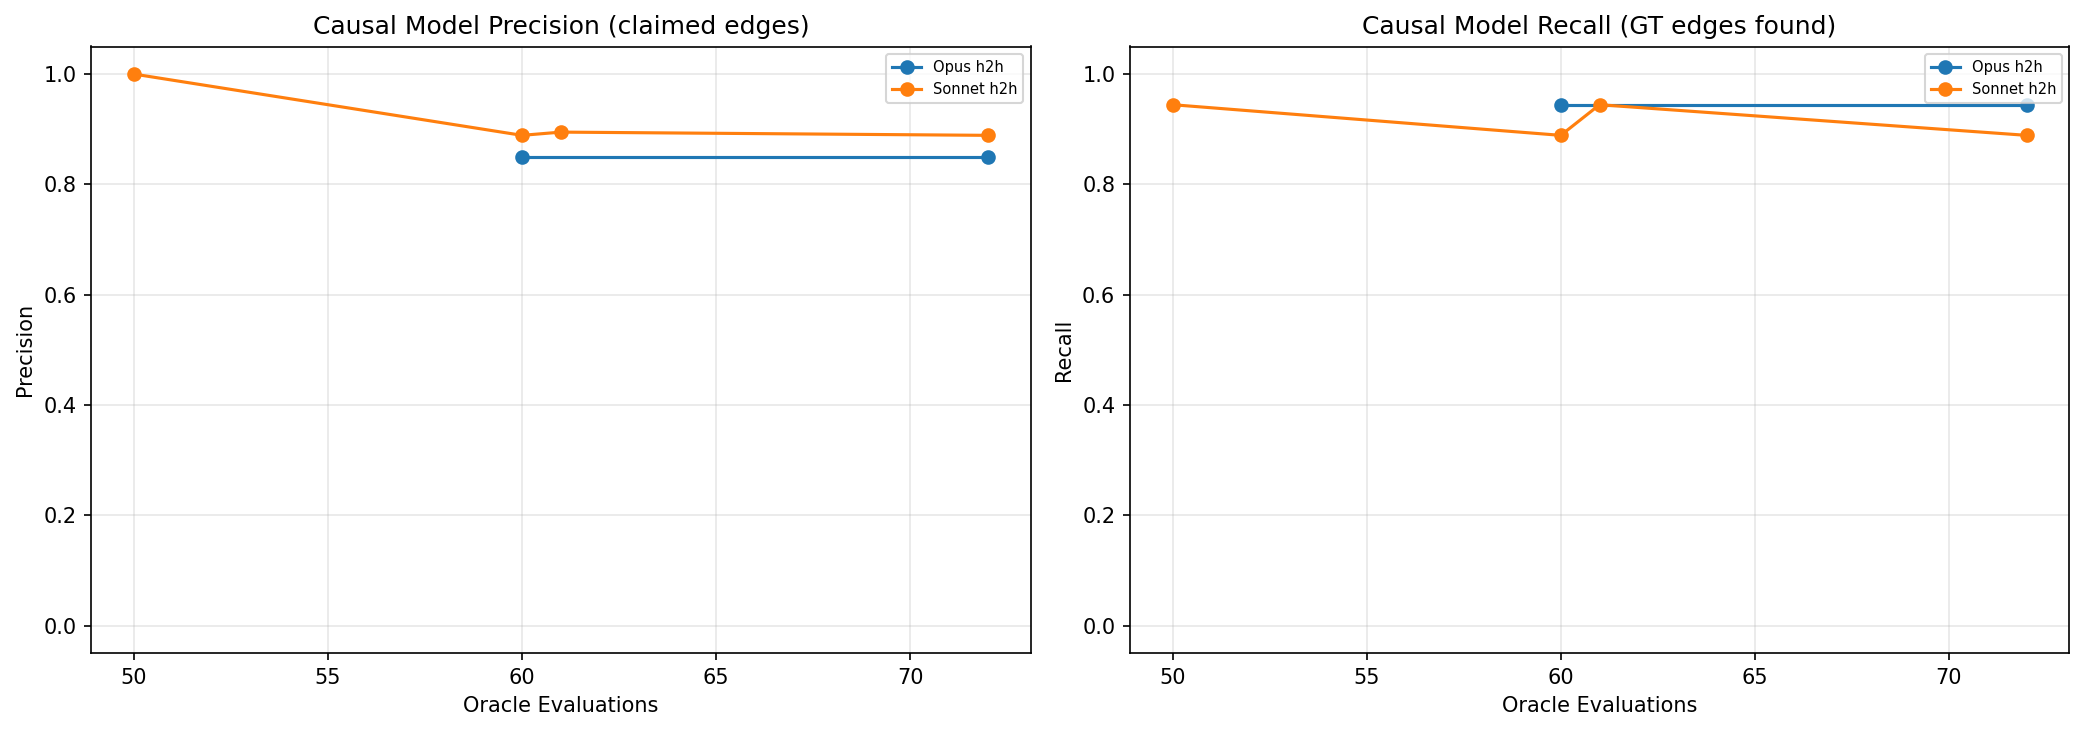
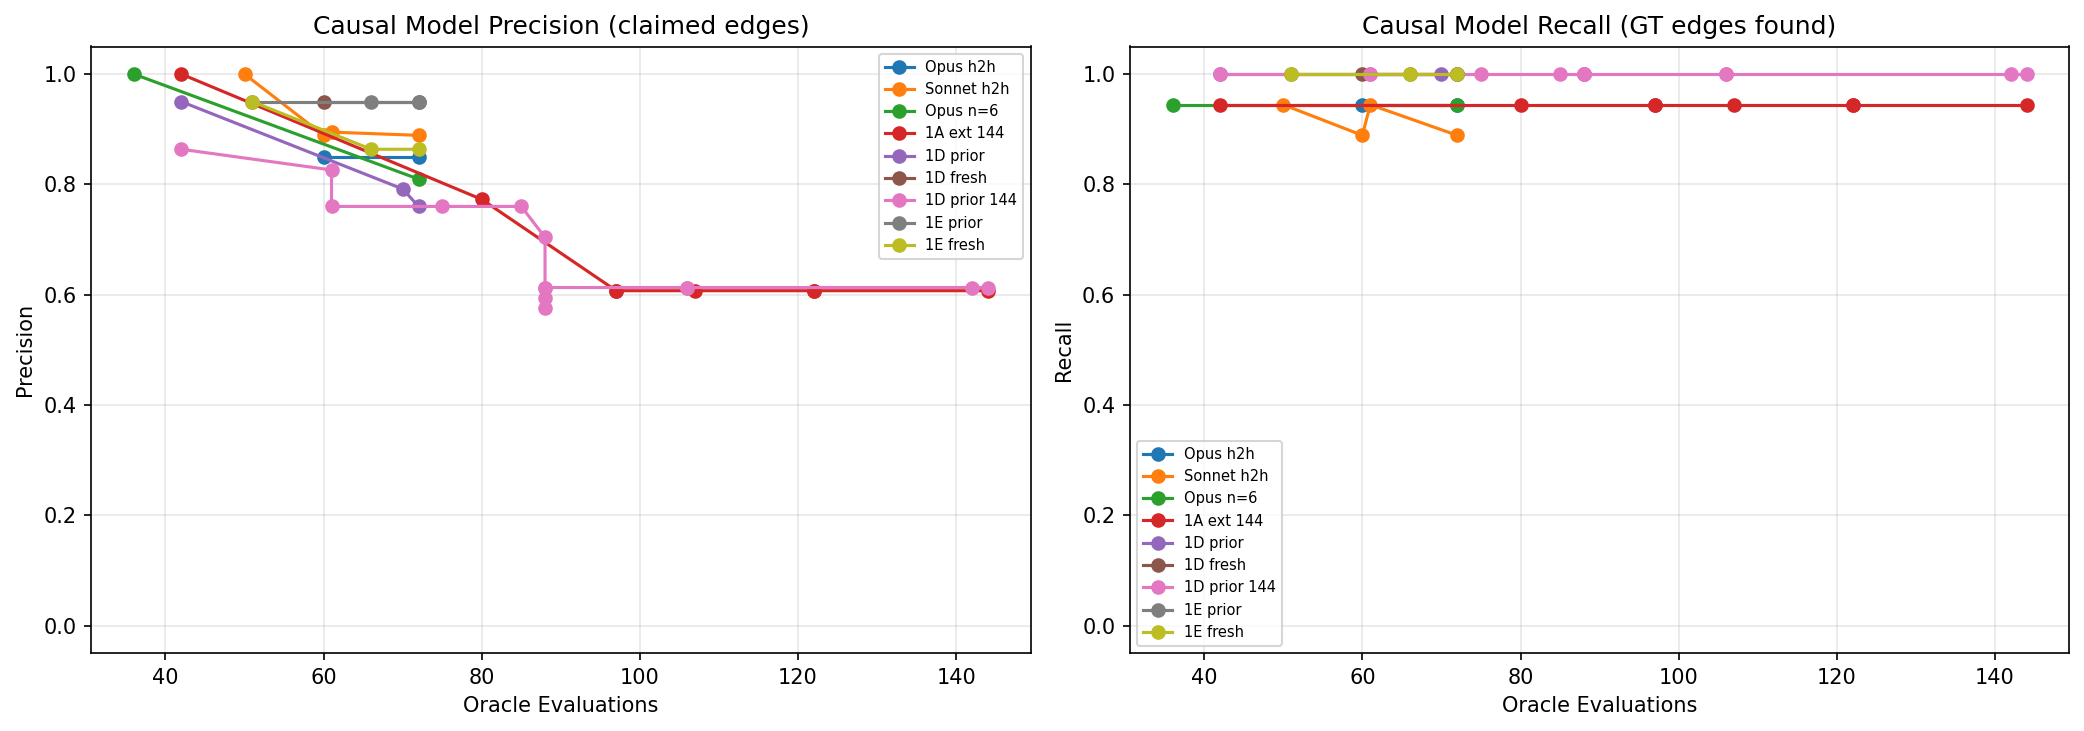
Register all transfer + extended runs in analysis suite
Added 1D/1E oracle configs and all new runs to compute_metrics.py:
- Opus n=6 ablation, 1A extended 144
- 1D prior/fresh (72), 1D prior 144
- 1E prior/fresh (72)

Key findings across all oracles:
  Edge P/R: 1D 100%/100% (all runs), 1E 100%/94.7% (missed X6->Y2)
  Mechanism sufficiency: 1D R²=0.75 (lower — more bypasses), 1E R²=0.96
  Calibration: 1D prior starts better calibrated, degrades over iterations
  Adversarial: 1D prior 144 has very low MAE in interaction zones (0.010)

diff --git a/experiments/analysis/compute_metrics.py b/experiments/analysis/compute_metrics.py
@@ -31,6 +31,8 @@ from synthoracle.dag import CausalDAG, Edge, EdgeDifficulty, Node, NodeType
 from synthoracle.optim_utils import compute_hypervolume, compute_reference_point, parse_directions
 from synthoracle.oracles.medium import MediumOracle
 from synthoracle.oracles.medium_1c import MediumOracle1C
+from synthoracle.oracles.medium_1d import MediumOracle1D
+from synthoracle.oracles.medium_1e import MediumOracle1E
 
 # ---------------------------------------------------------------------------
 # Paths
@@ -48,10 +50,14 @@ OUT_DIR.mkdir(parents=True, exist_ok=True)
 # Oracle configs
 # ---------------------------------------------------------------------------
 
-ORACLE_CONFIGS: list[tuple[str, MediumOracle | MediumOracle1C, dict[str, float]]] = [
+ORACLE_CONFIGS: list[
+    tuple[str, MediumOracle | MediumOracle1C | MediumOracle1D | MediumOracle1E, dict[str, float]]
+] = [
     ("1A", MediumOracle(variant="1A"), {"Y3": 0.4}),
     ("1B", MediumOracle(variant="1B"), {"Y3": 0.4}),
     ("1C", MediumOracle1C(), {"Y3": 0.4}),
+    ("1D", MediumOracle1D(), {"Y3": 0.4}),
+    ("1E", MediumOracle1E(), {"Y3": 0.4}),
 ]
 
 # ---------------------------------------------------------------------------
@@ -71,6 +77,17 @@ TOOL_USE_RUNS: dict[str, tuple[str, Path, Path]] = {
     # Head-to-head (structured iteration summaries)
     "Opus h2h": ("1A", VR_RESULTS / "opus_h2h_seed42_log.json", VR_RESULTS / "opus_h2h_seed42.npz"),
     "Sonnet h2h": ("1A", VR_RESULTS / "sonnet_h2h_seed42_log.json", VR_RESULTS / "sonnet_h2h_seed42.npz"),
+    # n=6 ablation
+    "Opus n=6": ("1A", VR_RESULTS / "opus_n6_seed42_log.json", VR_RESULTS / "opus_n6_seed42.npz"),
+    # Extended budget
+    "1A ext 144": ("1A", VR_RESULTS / "1a_extended_144_seed42_log.json", VR_RESULTS / "1a_extended_144_seed42.npz"),
+    # Transfer 1D
+    "1D prior": ("1D", VR_RESULTS / "transfer_1d_prior_seed42_log.json", VR_RESULTS / "transfer_1d_prior_seed42.npz"),
+    "1D fresh": ("1D", VR_RESULTS / "transfer_1d_fresh_seed42_log.json", VR_RESULTS / "transfer_1d_fresh_seed42.npz"),
+    "1D prior 144": ("1D", VR_RESULTS / "transfer_1d_prior_144_seed42_log.json", VR_RESULTS / "transfer_1d_prior_144_seed42.npz"),
+    # Transfer 1E
+    "1E prior": ("1E", VR_RESULTS / "transfer_1e_prior_seed42_log.json", VR_RESULTS / "transfer_1e_prior_seed42.npz"),
+    "1E fresh": ("1E", VR_RESULTS / "transfer_1e_fresh_seed42_log.json", VR_RESULTS / "transfer_1e_fresh_seed42.npz"),
 }
 
 # Batch VR run (Phase 2.2): label -> (oracle_label, log_path, npz_path)
@@ -108,7 +125,7 @@ EDGE_THRESHOLD = 0.05  # output range threshold for declaring an edge
 # Helpers
 # ---------------------------------------------------------------------------
 
-def _get_oracle(label: str) -> MediumOracle | MediumOracle1C:
+def _get_oracle(label: str) -> MediumOracle | MediumOracle1C | MediumOracle1D | MediumOracle1E:
     """Get oracle instance by label."""
     for lbl, oracle, _ in ORACLE_CONFIGS:
         if lbl == label:
